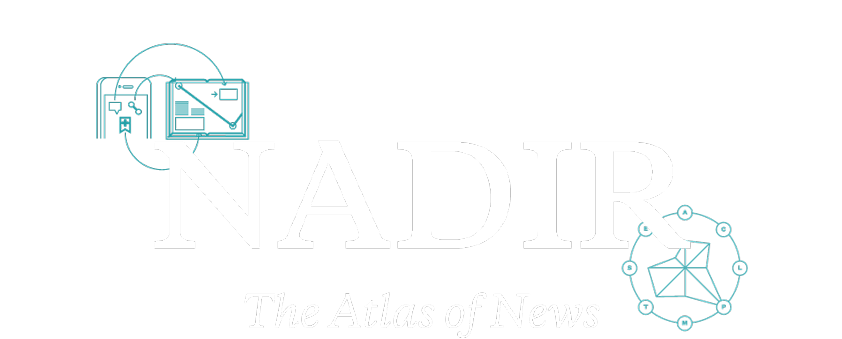
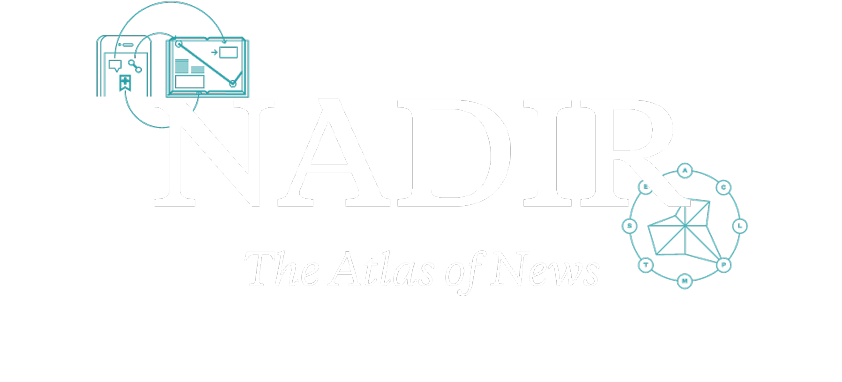
footer story

diff --git a/css/style.css b/css/style.css
@@ -264,14 +264,6 @@
 
 /*////////////////// COVERS ///////////////////*/
 
-  /*.mauro-cover {
-
-    min-height: 100vh;
-    padding-left: 0px;
-    padding-right: 0px;
-    position: relative;
-
-  }*/
 .mauro-cover {
   margin: 0 auto;
   /*
@@ -290,14 +282,7 @@
   /* IE9 and 10 */
   content: 'viewport-units-buggyfill;'  'width: 100vh;' 'height: 100vh;' ;
 }
-  /*.mauro-cover-container {
-    height: 200px;
-    padding-left: 0px;
-    padding-right: 0px;
-    max-width: 842px;
-    position: relative;
-    border: solid;
-  }*/
+
 
 .mauro-cover-container {
   margin: 0 auto;
@@ -329,14 +314,6 @@
   -webkit-animation-timing-function: ease;
 }
 
-/*.animation-1 {
-  animation-name: appear;
-  animation-duration: 1s;
-  animation-iteration-count: 1;
-  animation-timing-function: ease;
-  -webkit-animation: appear 1s 1;
-  -webkit-animation-timing-function: ease;
-}*/
 
 @-moz-keyframes appear { /* older versions of FF */
   from {opacity: 0;}
@@ -347,6 +324,30 @@
   from {opacity: 0;}
   to {opacity: 1;}
 }
+
+  .cover-bottom {
+  -moz-box-shadow: 0px 0px 20px 1px rgba(40, 40, 40, 0.2);
+  -webkit-box-shadow: 0px 0px 20px 1px rgba(40, 40, 40, 0.2);
+  box-shadow: 0px 0px 20px 1px rgba(40, 40, 40, 0.2);
+
+  opacity: 0.9;
+
+
+  }
+
+  .cover-bottom:hover {
+
+  /*-moz-transform: translateY(-30px);
+  -webkit-transform: translateY(-30px);
+  -ms-transform: translateY(-30px);
+  -o-transform: translateY(-30px);
+  transform: translateY(-30x);
+  transition: transform 0.7s ease-in-out;*/
+
+  opacity: 1;
+
+  }
+
   section:nth-of-type(1) {
 
     background: #00a5a5; /* Old browsers */
@@ -359,6 +360,20 @@
 
   }
 
+  .mauro-cover-ll-bg {
+
+    background: #00a5a5; /* Old browsers */
+    background: -moz-radial-gradient(bottom, circle cover, #00a5a5 0%, #19327f 100%); /* FF3.6-15 */
+    background: -webkit-radial-gradient(bottom, circle cover, #00a5a5 0%,#19327f 100%); /* Chrome10-25,Safari5.1-6 */
+    background: radial-gradient(circle at bottom, #00a5a5 0%,#19327f 100%); /* W3C, IE10+, FF16+, Chrome26+, Opera12+, Safari7+ */
+    filter: progid:DXImageTransform.Microsoft.gradient( startColorstr='#00a5a5', endColorstr='#19327f',GradientType=1 ); /* IE6-9 fallback on horizontal gradient */
+
+
+  position: relative;
+  z-index: -3;
+
+  }
+
   .mauro-cover-LL-title {
 
     background: url(../images/cover-LL-title.png) no-repeat bottom center;
@@ -368,6 +383,18 @@
     background-size: contain;
 
   }
+
+  .mauro-cover-LL-title-bottom {
+
+    background: url(../images/cover-LL-title-bottom.png) no-repeat center center;
+    -webkit-background-size: contain;
+    -moz-background-size: contain;
+    -o-background-size: contain;
+    background-size: contain;
+
+
+  }
+
 
   .mauro-cover-LL-project {
 
@@ -424,9 +451,32 @@
 
   }
 
+  .mauro-cover-nadir-bg {
+
+    background: #000000; /* Old browsers */
+    background: -moz-linear-gradient(top,  #000000 0%, #234e79 100%); /* FF3.6-15 */
+    background: -webkit-linear-gradient(top,  #000000 0%,#234e79 100%); /* Chrome10-25,Safari5.1-6 */
+    background: linear-gradient(to bottom,  #000000 0%,#234e79 100%); /* W3C, IE10+, FF16+, Chrome26+, Opera12+, Safari7+ */
+    filter: progid:DXImageTransform.Microsoft.gradient( startColorstr='#000000', endColorstr='#234e79',GradientType=0 ); /* IE6-9 */
+
+  position: relative;
+  z-index: -3;
+
+  }
+
   .mauro-cover-nadir-title {
 
-    background: url(../images/cover-nadir-title.png) no-repeat bottom center;
+    background: url(../images/cover-nadir-title-bottom.png) no-repeat bottom center;
+    -webkit-background-size: contain;
+    -moz-background-size: contain;
+    -o-background-size: contain;
+    background-size: contain;
+
+  }
+
+  .mauro-cover-nadir-bottom {
+
+    background: url(../images/cover-nadir-title.png) no-repeat center center;
     -webkit-background-size: contain;
     -moz-background-size: contain;
     -o-background-size: contain;
@@ -474,9 +524,32 @@
 
   }
 
+  .mauro-cover-as-bg {
+
+    background: #d5ff83;
+    background: -moz-linear-gradient(45deg,  #d5ff83 0%, #ffc56d 100%);
+    background: -webkit-linear-gradient(45deg,  #d5ff83 0%,#ffc56d 100%);
+    background: linear-gradient(45deg,  #d5ff83 0%,#ffc56d 100%);
+    filter: progid:DXImageTransform.Microsoft.gradient( startColorstr='#d5ff83', endColorstr='#ffc56d',GradientType=1 );
+
+  position: relative;
+  z-index: -3;
+
+  }
+
   .mauro-cover-as-title {
 
     background: url(../images/cover-as-title.png) no-repeat bottom center;
+    -webkit-background-size: contain;
+    -moz-background-size: contain;
+    -o-background-size: contain;
+    background-size: contain;
+
+  }
+
+  .mauro-cover-as-title-bottom {
+
+    background: url(../images/cover-as-title.png) no-repeat center center;
     -webkit-background-size: contain;
     -moz-background-size: contain;
     -o-background-size: contain;
@@ -510,6 +583,7 @@
     z-index: -2;
 
   }
+
 
 
 
@@ -583,7 +657,7 @@
 /*////////////////// cover in stories ///////////////////*/
 
 
-  /*  .mauro-cover-coloe-transition {
+  /*  .cover-coloe-transition {
       background-color: #faf1e4;
       height: 30px;
       width: 100%;
@@ -910,4 +984,12 @@
   -ms-transform: rotate(-180deg);
   -o-transform: rotate(-180deg);
   transform: rotate(-180deg);
+}
+
+/* texting new menu
+–––––––––––––––––––––––––––––––––––––––––––––––––– */
+
+.footer {
+  padding: 0px;
+
 }

diff --git a/coloe.html b/coloe.html
@@ -144,20 +144,51 @@
 			   	<img src="images/coloe-07.png" alt="the colours of the Olympic symbol" height="156" width="846" class="img-responsive">
 			   	<img src="images/coloe-08.png" alt="the colours of the Olympic symbol" height="156" width="846" class="img-responsive">
 
+					<div style="height:100px"></div>
+
+
 					</div>
 
 			</div>
 
 		</div>
 
+	</div>
+
+<div class="container-fluid">
+
+	<div class="row">
+
+		<div class="col-sm-6 footer">
+			<div class="cover-bottom">
+				<a href="#">
+					<div class="mauro-cover-ll-bg">
+							<div class="mauro-cover-container mauro-cover-LL-title-bottom"></div>
+							<div class="mauro-cover-LL-bg-all"></div>
+						</div>
+				</a>
+			</div>
+		</div>
+
+		<div class="col-sm-6 footer">
+			<div class="cover-bottom">
+				<a href="#">
+					<div class="mauro-cover-nadir-bg">
+							<div class="mauro-cover-container mauro-cover-nadir-bottom"></div>
+							<div class="mauro-cover-nadir-bg-all"></div>
+					</div>
+				</a>
+			</div>
+		</div>
+
+	</div>
+
 </div>
 
-<a href="#">
-	<div class="container-fluid mauro-cover-bottom mauro-cover-as-bg">
-			<div class="container-fluid mauro-cover-container mauro-cover-as-title"></div>
-			<div class="container-fluid mauro-cover-as-bg-all"></div>
-		</div>
-</a>
+
+
+
+
 
 
 
